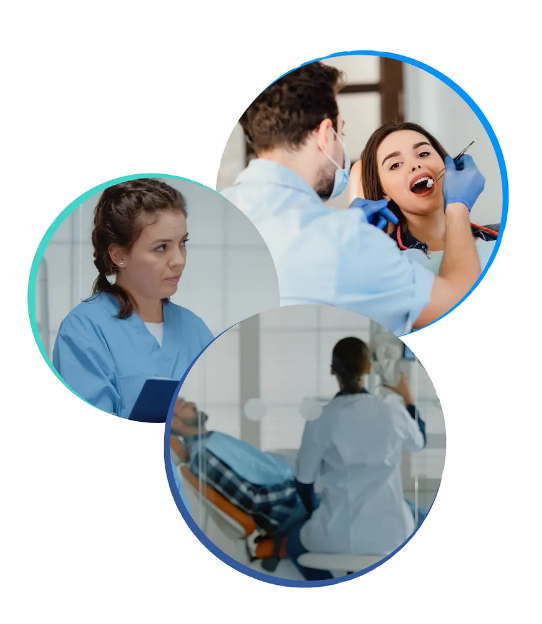
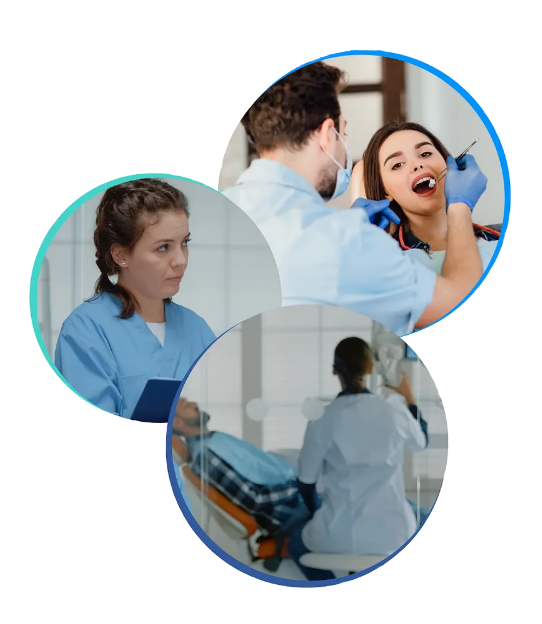
Added cards & styles

diff --git a/client/app/globals.scss b/client/app/globals.scss
@@ -12,12 +12,14 @@ $desktop: "min-width: 1901px";
 
 //MIXINS
 @mixin titles{
+  color: #14799b;
+  opacity: 0;
   text-align: center;
   padding-top: 5%;
   padding-bottom: 3rem;
-  @media (#{$notebook}), (#{$desktop}) { font-size: 3rem; }
+  @media (#{$notebook}), (#{$medium}), (#{$desktop}) { font-size: 3rem; }
   @media (#{$mini}), (#{$mobile}) { font-size: 2rem; padding-top: 8%; }
-  @include fade(top, 1s);
+  @include fade(up, 1s);
 }
 
 @mixin divs{
@@ -108,7 +110,7 @@ body{
         white-space: nowrap;
         width: 100%;
         padding-right: 20px;
-        @media (#{$notebook}) , (#{$desktop}) { font-size: 1.5rem; padding-block: 1.2rem }
+        @media (#{$notebook}), (#{$medium}), (#{$desktop}) { font-size: 1.5rem; padding-block: 1.2rem }
         &::before {
           content: '';
           position: absolute;
@@ -120,7 +122,7 @@ body{
           transform: translateX(50%);
           transition: all 0.3s ease;
           opacity: 1;
-          @media (#{$notebook}) , (#{$desktop}) { width: 0.8rem; height: 0.8rem; }
+          @media (#{$notebook}), (#{$medium}), (#{$desktop}) { width: 0.8rem; height: 0.8rem; }
         }
         &.active::before {
           background-color: #00BFFF;
@@ -145,6 +147,7 @@ body{
     color: white;
     h1{
       margin: 0;
+      color: whitesmoke;
     }
     .fondoDentista {
       position: sticky;
@@ -155,17 +158,21 @@ body{
       display: flex;
       justify-content: space-between;
       align-items: center;
-      height: 100%;
       .leftComponent{
         display: flex;
         flex-direction: column;
+        justify-content: center;
         align-items: flex-start;
         gap: 15px;
         flex: 1;
-        margin-left: 4rem;
-        @include fade(left, 1s);
+        margin: 10rem 4rem;
+        opacity: 0;
+        @include fade(left, 0.5s);
+        h1{
+          margin-left: 3rem;
+        }
         p{
-          @media (#{$notebook}), (#{$desktop}) { font-size: 2rem; width: 80%; }
+          @media (#{$notebook}), (#{$medium}), (#{$desktop}) { font-size: 2rem; width: 80%; }
         }
         a{
           background-color: #00000050;
@@ -173,14 +180,27 @@ body{
           border: 1.5px solid rgba(255, 255, 255, 0.712);
           font-size: 1rem;
           padding: 0.5%;
-          margin: auto;
-          @media (#{$notebook}), (#{$desktop}) { font-size: 2rem }
+          margin: 10rem auto;
+          @media (#{$notebook}), (#{$medium}), (#{$desktop}) { font-size: 2rem; margin: 8rem auto; }
         }
       }
       .rightComponent{
         img{
-          @include fade(up, 1s);
+          opacity: 0;
+          @include fade(up, 0.5s);
         }
+      }
+    }
+    .cardsDentista{
+      display: flex;
+      div{
+        background-color: whitesmoke;
+        @media (#{$notebook}), (#{$medium}), (#{$desktop}){ height: 19rem; width: 15rem }
+        img{}
+        h4{
+          text-align: center;
+        }
+        p{}
       }
     }
   }
@@ -190,16 +210,50 @@ body{
     @include divs();
     .nosotrosDivision{
       display: flex;
+      margin: 0 auto;
+      gap: 2rem;
+
+      @media (#{$notebook}), (#{$medium}), (#{$desktop}) { 
+        width: 80%;
+      }
+
       .leftComponent{
+        flex: 1;
+        margin-top: 2rem;
         opacity: 0;
         &.inView{
-          @include fade(up, 1s)
+          @include fade(up, 0.5s)
         }
       }
+
       .rightComponent{
+        flex: 1;
+        justify-content: center;
+        align-items: center;
+        padding: 1rem;
         opacity: 0;
+        font-size: 1rem;
+        @media (#{$notebook}), (#{$medium}), (#{$desktop}){ padding: 2rem; font-size: 1.5rem }
+        .tratamiento{
+
+        }
+        h4{
+          color: #728EC2;
+          @media (#{$notebook}), (#{$medium}), (#{$desktop}){
+            font-size: 2rem;
+            margin-top: 1.1rem;
+          }
+        }
+        .descripcion{
+        }
+        ul{
+          margin-top: 1rem;
+          li{
+            margin-left: 1.8rem;
+          }
+        }
         &.inView{
-          @include fade(right, 1s)
+          @include fade(right, 0.7s)
         }
       }
     }
@@ -208,7 +262,9 @@ body{
   // --- SECCION TRATAMIENTOS ---
   .tratamientos {
     @include divs();
-    
+    h1{
+      color: whitesmoke;
+    }
     .tratamientoItems {
       display: flex;
       flex-wrap: wrap;
@@ -221,7 +277,7 @@ body{
       @media (#{$mini}), (#{$mobile}) { margin: 15% auto 0; }
       @media (#{$tablet}) { margin: 10% auto 0; }
       @media (#{$notebook}) { margin: 2% auto 0; }
-      @media (#{$notebook}), (#{$desktop}) { width: 60%; }
+      @media (#{$notebook}), (#{$medium}), (#{$desktop}) { width: 60%; }
   
       .item {
         width: 18vw;
@@ -268,7 +324,7 @@ body{
           height: 2rem;
           max-width: 90%;
   
-          @media (#{$notebook}), (#{$desktop}) { 
+          @media (#{$notebook}), (#{$medium}), (#{$desktop}) { 
             font-size: 1.2rem; 
             padding: 0.8rem 1.5rem;
           }
@@ -299,23 +355,36 @@ body{
       margin-top: 3rem;
       .datos{
         opacity: 0;
-        h3{
-          color: #728EC2;
-        }
-        ul{
-          margin-left: 1.1rem;
-          li{}
+        display: flex;
+        flex: 1;
+        flex-direction: column;
+        justify-content: center;
+        .contactoItem{
+          margin: 1.5rem 15rem;
+          @media (#{$notebook}), (#{$medium}), (#{$desktop}) { margin: 2rem 15rem }
+          h3{
+            color: #728EC2;
+            @media (#{$notebook}), (#{$medium}), (#{$desktop}) { font-size: 2.2rem; }
+          }
+          ul{
+            margin: 1rem;
+            li{
+              @media (#{$notebook}), (#{$medium}), (#{$desktop}) { font-size: 1.7rem; margin-left: 1rem }
+            }
+          }
         }
         &.inView{
-          @include fade(right, 1s);
+          @include fade(right, 0.5s);
         }
       }
       .map{
+        flex: 1;
         justify-content: center;
         align-items: center;
         opacity: 0;
+        @media (#{$notebook}), (#{$medium}), (#{$desktop}) { margin: 1rem }
         &.inView{
-          @include fade(left, 1s);
+          @include fade(left, 0.5s);
         }
       }
     }
@@ -335,7 +404,7 @@ body{
     color: black;
     text-align: center;
     padding-top: 1%;
-    @media (#{$notebook}), (#{$desktop}) { padding-top: 0.5% }
+    @media (#{$notebook}), (#{$medium}), (#{$desktop}) { padding-top: 0.5% }
     a{
       font-size: 0.8rem;
       text-shadow: 
@@ -343,7 +412,7 @@ body{
         0.2px -0.2px 0 #fff,
        -0.2px  0.2px 0 #fff,
         0.2px  0.2px 0 #fff;
-        @media (#{$notebook}), (#{$desktop}) { font-size: 1.4rem; }
+        @media (#{$notebook}), (#{$medium}), (#{$desktop}) { font-size: 1.4rem; }
     }
   }
 }

diff --git a/client/app/_components/nosotros/right/RightComponent.tsx b/client/app/_components/nosotros/right/RightComponent.tsx
@@ -19,8 +19,8 @@ export default function RightComponent() {
   const trayectoria = [
     "Desempeño en el Centro Odontológico San Justo.",
     "Atención en Unidad Sanitaria San Carlos.",
-    "Experiencia en Giovinazzo Casanova.",
-    "Unidad de Salud Tablada.",
+    "Experiencia en Posta Sanitaria Dr. Giovinazzo Casanova.",
+    "Unidad de Salud La Tablada.",
     "Dictado de clases en el Centro Odontológico San Justo."
   ];
 
@@ -29,11 +29,11 @@ export default function RightComponent() {
     className={`rightComponent ${inView ? 'inView' : ''}`}
       ref={ref}
     >
-      <p>
+      <p className='descripcion'>
         Silvia Pellegrino desempeña su labor en su consultorio privado brindando atención personalizada tanto a adultos como a niños. Su principal objetivo es el cuidado integral de la salud bucal, combinando experiencia y dedicación en cada diagnóstico.
       </p>
       <h4>Servicios y Tratamientos:</h4>
-      <p>
+      <p className='tratamiento'>
         Se realizan tratamientos de Odontología general para adultos y Odontopediatría. 
         El consultorio se especializa en la recuperación de la salud dental y la estética, abarcando:
         (Nota: No se realizan cirugías ni ortodoncia. Los casos de implantes se manejan mediante consulta por derivación).

diff --git a/client/app/_components/dentista/cards/CardsDentista.tsx b/client/app/_components/dentista/cards/CardsDentista.tsx
@@ -1,0 +1,27 @@
+import Image from "next/image"
+
+export default function CardsDentista() {
+
+  const cards = [
+    {id: 0, src: '/img/dentist/icons/expert.webp', alt:'icono experto', title: 'Años de experiencia', description: 'Sólida trayectoria profesional brindando diagnósticos precisos y tratamientos efectivos para tu salud bucal.'},
+    {id: 1, src: '/img/dentist/icons/uba.webp', alt:'icono universidad', title: 'Recibida en UBA', description: 'Formación académica de excelencia en una de las instituciones médicas más prestigiosas del país.'},
+    {id: 2, src: '/img/dentist/icons/atencion.webp', alt:'icono atencion', title: 'Atención de calidad', description: 'Priorizamos tu comodidad con un trato cálido, humano y personalizado en cada visita.'}
+  ]
+  
+  return (
+    <div className='cardsDentista'>
+      {cards.map((obj) =>(
+        <div key={obj.id}>
+          <Image
+            src={obj.src}
+            alt={obj.alt}
+            height={150}
+            width={150}
+          />
+          <h4>{obj.title}</h4>
+          <p>{obj.description}</p>
+        </div>
+      ))}
+    </div>
+  )
+}

diff --git a/client/app/_components/dentista/Dentista.tsx b/client/app/_components/dentista/Dentista.tsx
@@ -1,6 +1,7 @@
-import Image from "next/image";
-import LeftComponent from "./left/LeftComponent";
-import RightComponent from "./right/RightComponent";
+import Image from 'next/image'
+import LeftComponent from './left/LeftComponent'
+import RightComponent from './right/RightComponent'
+import CardsDentista from './cards/CardsDentista'
 
 export default function Dentista() {
   return (
@@ -9,8 +10,9 @@ export default function Dentista() {
         <LeftComponent/>
         <RightComponent/>
       </div>
+      <CardsDentista/>
       <Image
-        className="fondoDentista"
+        className='fondoDentista'
         src='/img/backgrounds/backgroundDentist.webp'
         alt='Fondo imagen'
         fill

diff --git a/client/app/_components/contacto/ContactMap.tsx b/client/app/_components/contacto/ContactMap.tsx
@@ -1,4 +1,3 @@
-"use client"
 import { useInView } from "react-intersection-observer";
 export default function ContactMap() {
 
@@ -14,7 +13,7 @@ export default function ContactMap() {
       className={`map ${inView ? 'inView' : ''}`}
       src="https://www.google.com/maps/embed?pb=!1m18!1m12!1m3!1d3280.7309790915087!2d-58.53040848780947!3d-34.68673857281178!2m3!1f0!2f0!3f0!3m2!1i1024!2i768!4f13.1!3m3!1m2!1s0x95bcc8c65eebf0a3%3A0xaf5de9bb35b0baf8!2sCatriel%204929%2C%20B1766FLK%20La%20Tablada%2C%20Provincia%20de%20Buenos%20Aires!5e0!3m2!1ses-419!2sar!4v1771205783267!5m2!1ses-419!2sar"
       width="900" 
-      height="500"
+      height="600"
       loading="lazy"
     />
   )

diff --git a/client/app/_components/dentista/left/LeftComponent.tsx b/client/app/_components/dentista/left/LeftComponent.tsx
@@ -2,7 +2,7 @@ export default function LeftComponent(){
   const year = new Date().getFullYear() - 1981;
 
   return(
-    <div className="leftComponent">
+    <div className='leftComponent'> 
       <h1>Dra. Silvia Pellegrino</h1>
       <p>
         Con más de {year} años de trayectoria dedicada a la salud bucal, la Dra. Pellegrino ha transformado la 

diff --git a/client/app/_components/contacto/ContactoItem.tsx b/client/app/_components/contacto/ContactoItem.tsx
@@ -24,7 +24,7 @@ export default function ContactoItem({data}: ContactoProps) {
       ref={ref}  
     >
     {data.map((obj)=>(
-      <div key={obj.id} className='contactoitem'>
+      <div key={obj.id} className='contactoItem'>
         <h3 >{obj.subtitle}</h3>
         <ul>
           <li>{obj.item}</li>

diff --git a/client/app/_components/dentista/right/RightComponent.tsx b/client/app/_components/dentista/right/RightComponent.tsx
@@ -1,8 +1,8 @@
-import Image from "next/image"
+import Image from 'next/image'
 
 export default function RightComponent(){
   return(
-    <div className="rightComponent">
+    <div className='rightComponent'>
       <Image 
         src={'/img/dentist/dentist.webp'}
         height={600}

diff --git a/client/app/_components/nosotros/right/UnorderedList.tsx b/client/app/_components/nosotros/right/UnorderedList.tsx
@@ -2,7 +2,7 @@ export default function UnorderedList({item}: Readonly<{item: string[]}>) {
   return (
     <ul>
       {item.map((listItem, index) => (
-        <ul key={index}>{listItem}</ul>
+        <li key={index}>{listItem}</li>
       ))}
     </ul>
   )
